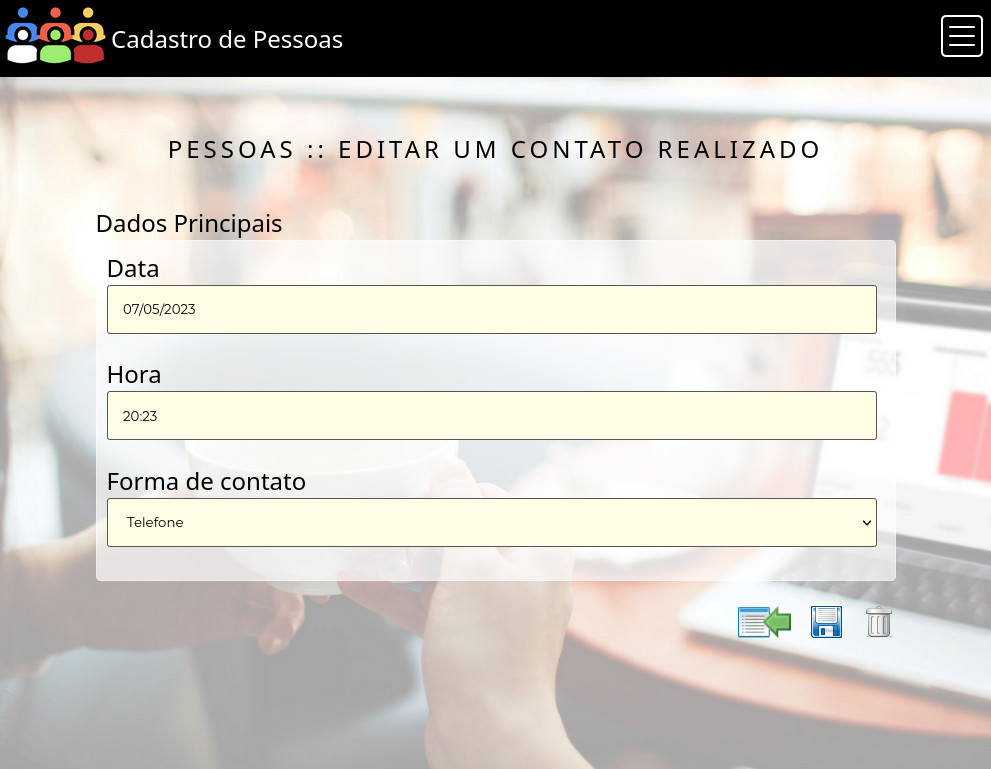
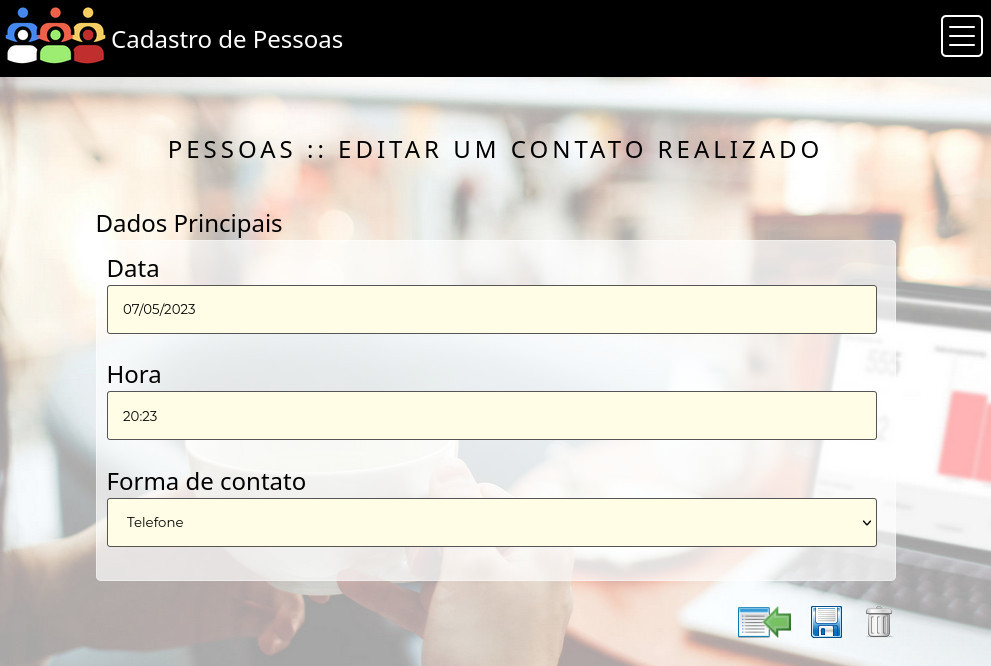
Acerto na numeração e melhoria nas imagens

diff --git a/src/index.php b/src/index.php
@@ -65,7 +65,7 @@
 		
 		<DIV class='contenedor_campo'>
 			<LABEL>CPF</LABEL>
-			<input type='text' id='cpf'>
+			<input type='text' id='cpf' autocomplete=off>
 		</DIV>
 
 		<DIV class='contenedor_campo'>

diff --git a/docs/06-Templates e Programação de Funcionalidades.md b/docs/06-Templates e Programação de Funcionalidades.md
@@ -121,7 +121,11 @@ Artefatos específicos:
 
 Permite listar as pessoas já cadastradas, com opção de busca, e acesso às ferramentas de edição e inserção de uma nova pessoa.
 
-[TELA_RECUPERAR_SENHA.jpg]
+<p align='center'>
+<img src='img/07/Pessoas_Listar.jpg'><BR>
+Figura 33 – Tela de inserção de pessoas (Parte de cima)
+
+</p>
 
 | Requisitos atendidos | Cópia do Requisito |
 | --- | --- |
@@ -134,9 +138,9 @@ Permite inserir uma nova pessoa.
 
 <p align='center'>
 <img src='img/07/Pessoas_Inserir_1.jpg'><BR>
-Figura 33 – Tela de inserção de pessoas (Parte de cima)
+Figura 34 – Tela de inserção de pessoas (Parte de cima)
 <img src='img/07/Pessoas_Inserir_2.jpg'><BR>
-Figura 34 – Tela de inserção de pessoas (Parte de baixo)
+Figura 35 – Tela de inserção de pessoas (Parte de baixo)
 </p>
 
 | Requisitos atendidos | Cópia do Requisito |
@@ -153,9 +157,9 @@ Permite editar uma pessoa já cadastrada, com opção de exclusão.
 
 <p align='center'>
 <img src='img/07/Pessoas_Editar_1.jpg'><BR>
-Figura 35 – Tela de edição de pessoas (Parte de cima)
+Figura 36 – Tela de edição de pessoas (Parte de cima)
 <img src='img/07/Pessoas_Editar_2.jpg'><BR>
-Figura 36 – Tela de edição de pessoas (Parte de baixo)
+Figura 37 – Tela de edição de pessoas (Parte de baixo)
 </p>
 
 
@@ -174,7 +178,7 @@ Permite listar os campos genéricos já cadastrados, com opção de busca, e ace
 
 <p align='center'>
 <img src='img/07/Cadastro_Generico_Listar.jpg'><BR>
-Figura 37 – Tela de listagem de campos genéricos
+Figura 38 – Tela de listagem de campos genéricos
 </p>
 
 | Requisitos atendidos | Cópia do Requisito |
@@ -191,7 +195,7 @@ Permite inserir um novo campo genérico.
 
 <p align='center'>
 <img src='img/07/Cadastro_Generico_Inserir.jpg'><BR>
-Figura 38 – Tela de inserção de um campo genérico
+Figura 39 – Tela de inserção de um campo genérico
 </p>
 
 | Requisitos atendidos | Cópia do Requisito |
@@ -208,7 +212,7 @@ Permite editar um campo genérico já cadastrado, com opção de exclusão.
 
 <p align='center'>
 <img src='img/07/Cadastro_Generico_Editar.jpg'><BR>
-Figura 39 – Tela de edição de um campo genérico existente
+Figura 40 – Tela de edição de um campo genérico existente
 </p>
 
 | Requisitos atendidos | Cópia do Requisito |
@@ -224,7 +228,7 @@ Permite listar os usuários já cadastrados, com opção de busca, e acesso às 
 
 <p align='center'>
 <img src='img/07/Usuarios_Listar.jpg'><BR>
-Figura 40 – Tela de listagem de usuários
+Figura 41 – Tela de listagem de usuários
 </p>
 
 | Requisitos atendidos | Cópia do Requisito |
@@ -241,7 +245,7 @@ Permite listar os usuários já cadastrados, com opção de busca, e acesso às 
 
 <p align='center'>
 <img src='img/07/Usuarios_Inserir.jpg'><BR>
-Figura 41 – Tela de inserção de um novo usuário
+Figura 42 – Tela de inserção de um novo usuário
 </p>
 
 | Requisitos atendidos | Cópia do Requisito |
@@ -257,7 +261,7 @@ Permite editar um usuário já cadastrado, com opção de exclusão.
 
 <p align='center'>
 <img src='img/07/Usuarios_Editar.jpg'><BR>
-Figura 42 – Tela de edição de um usuário existente
+Figura 43 – Tela de edição de um usuário existente
 </p>
 
 | Requisitos atendidos | Cópia do Requisito |
@@ -276,7 +280,7 @@ Permite listar os contatos realizados com uma pessoa.
 
 <p align='center'>
 <img src='img/07/Contato_Listar.jpg'><BR>
-Figura 43 – Tela de listagem de contatos realizados como uma pessoa
+Figura 44 – Tela de listagem de contatos realizados como uma pessoa
 </p>
 
 | Requisitos atendidos | Cópia do Requisito |
@@ -294,7 +298,7 @@ Permite inserir um novo contatos realizados com uma pessoa.
 
 <p align='center'>
 <img src='img/07/Contato_Inserir.jpg'><BR>
-Figura 44 – Tela de inserção de um contato realizado
+Figura 45 – Tela de inserção de um contato realizado
 </p>
 
 | Requisitos atendidos | Cópia do Requisito |
@@ -312,7 +316,7 @@ Permite editar um novo contatos realizados com uma pessoa.
 
 <p align='center'>
 <img src='img/07/Contato_Editar.jpg'><BR>
-Figura 45 – Tela de edição de um contato realizado
+Figura 46 – Tela de edição de um contato realizado
 </p>
 
 | Requisitos atendidos | Cópia do Requisito |
